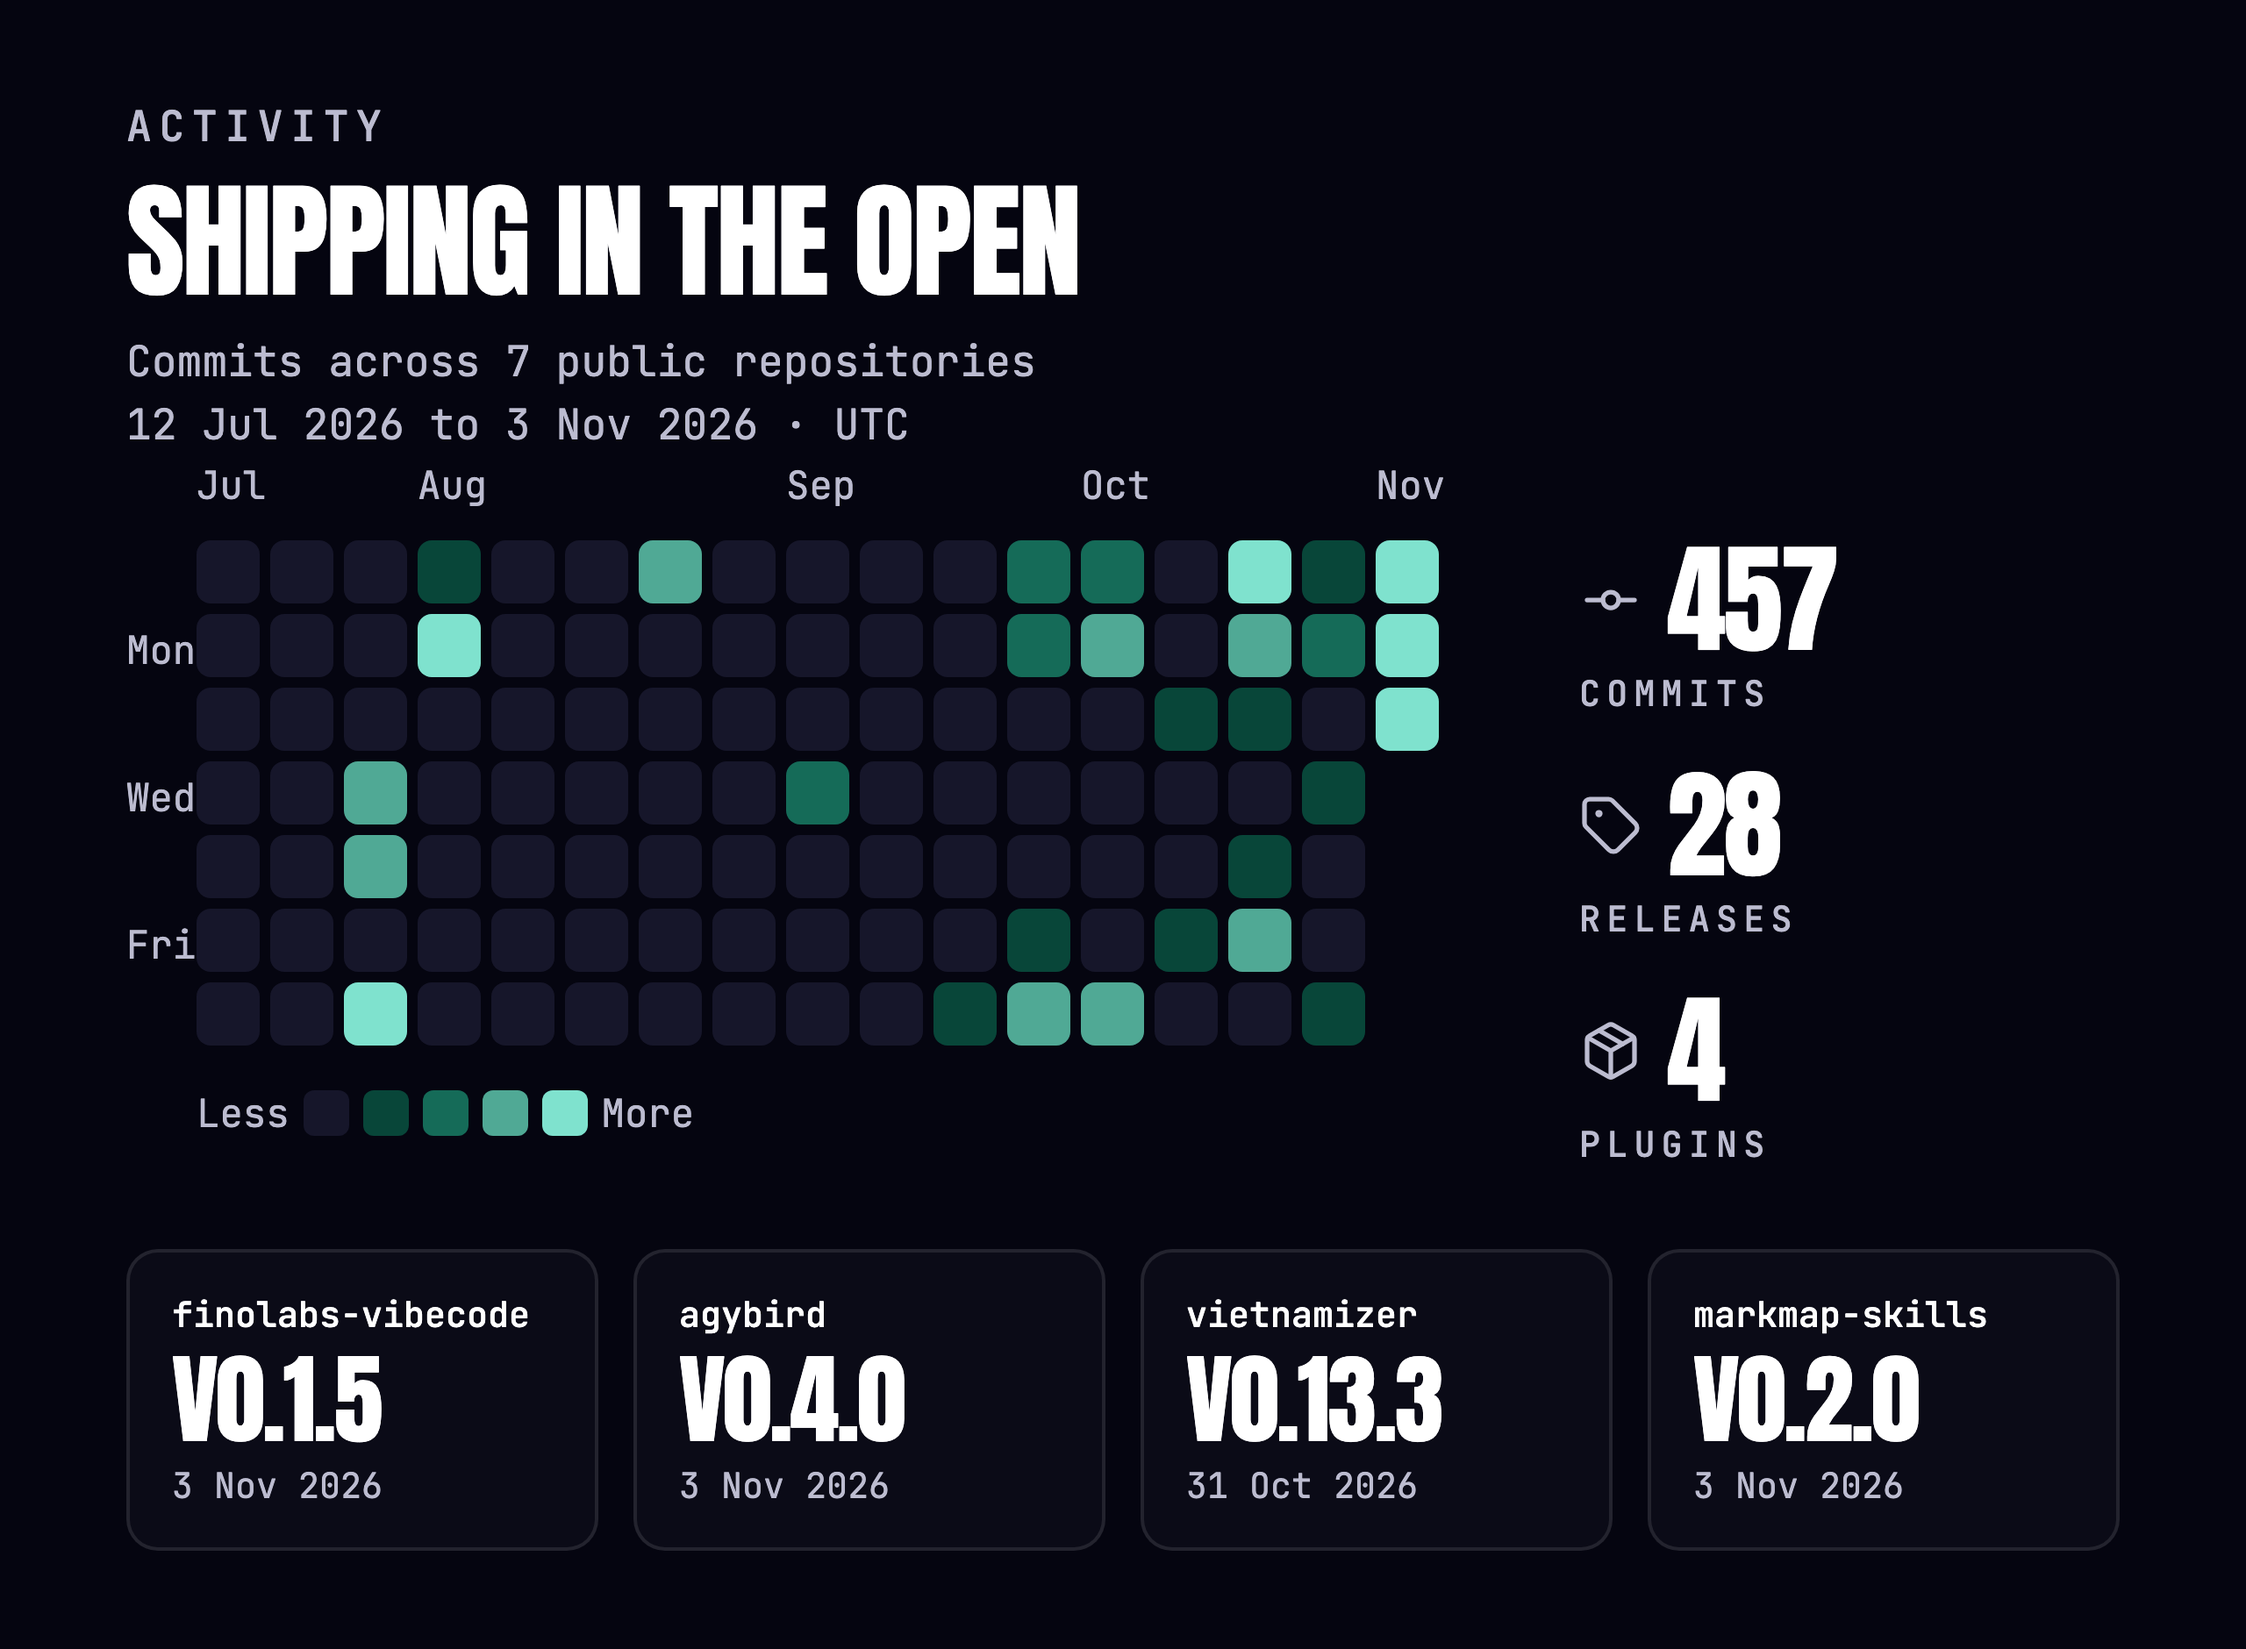
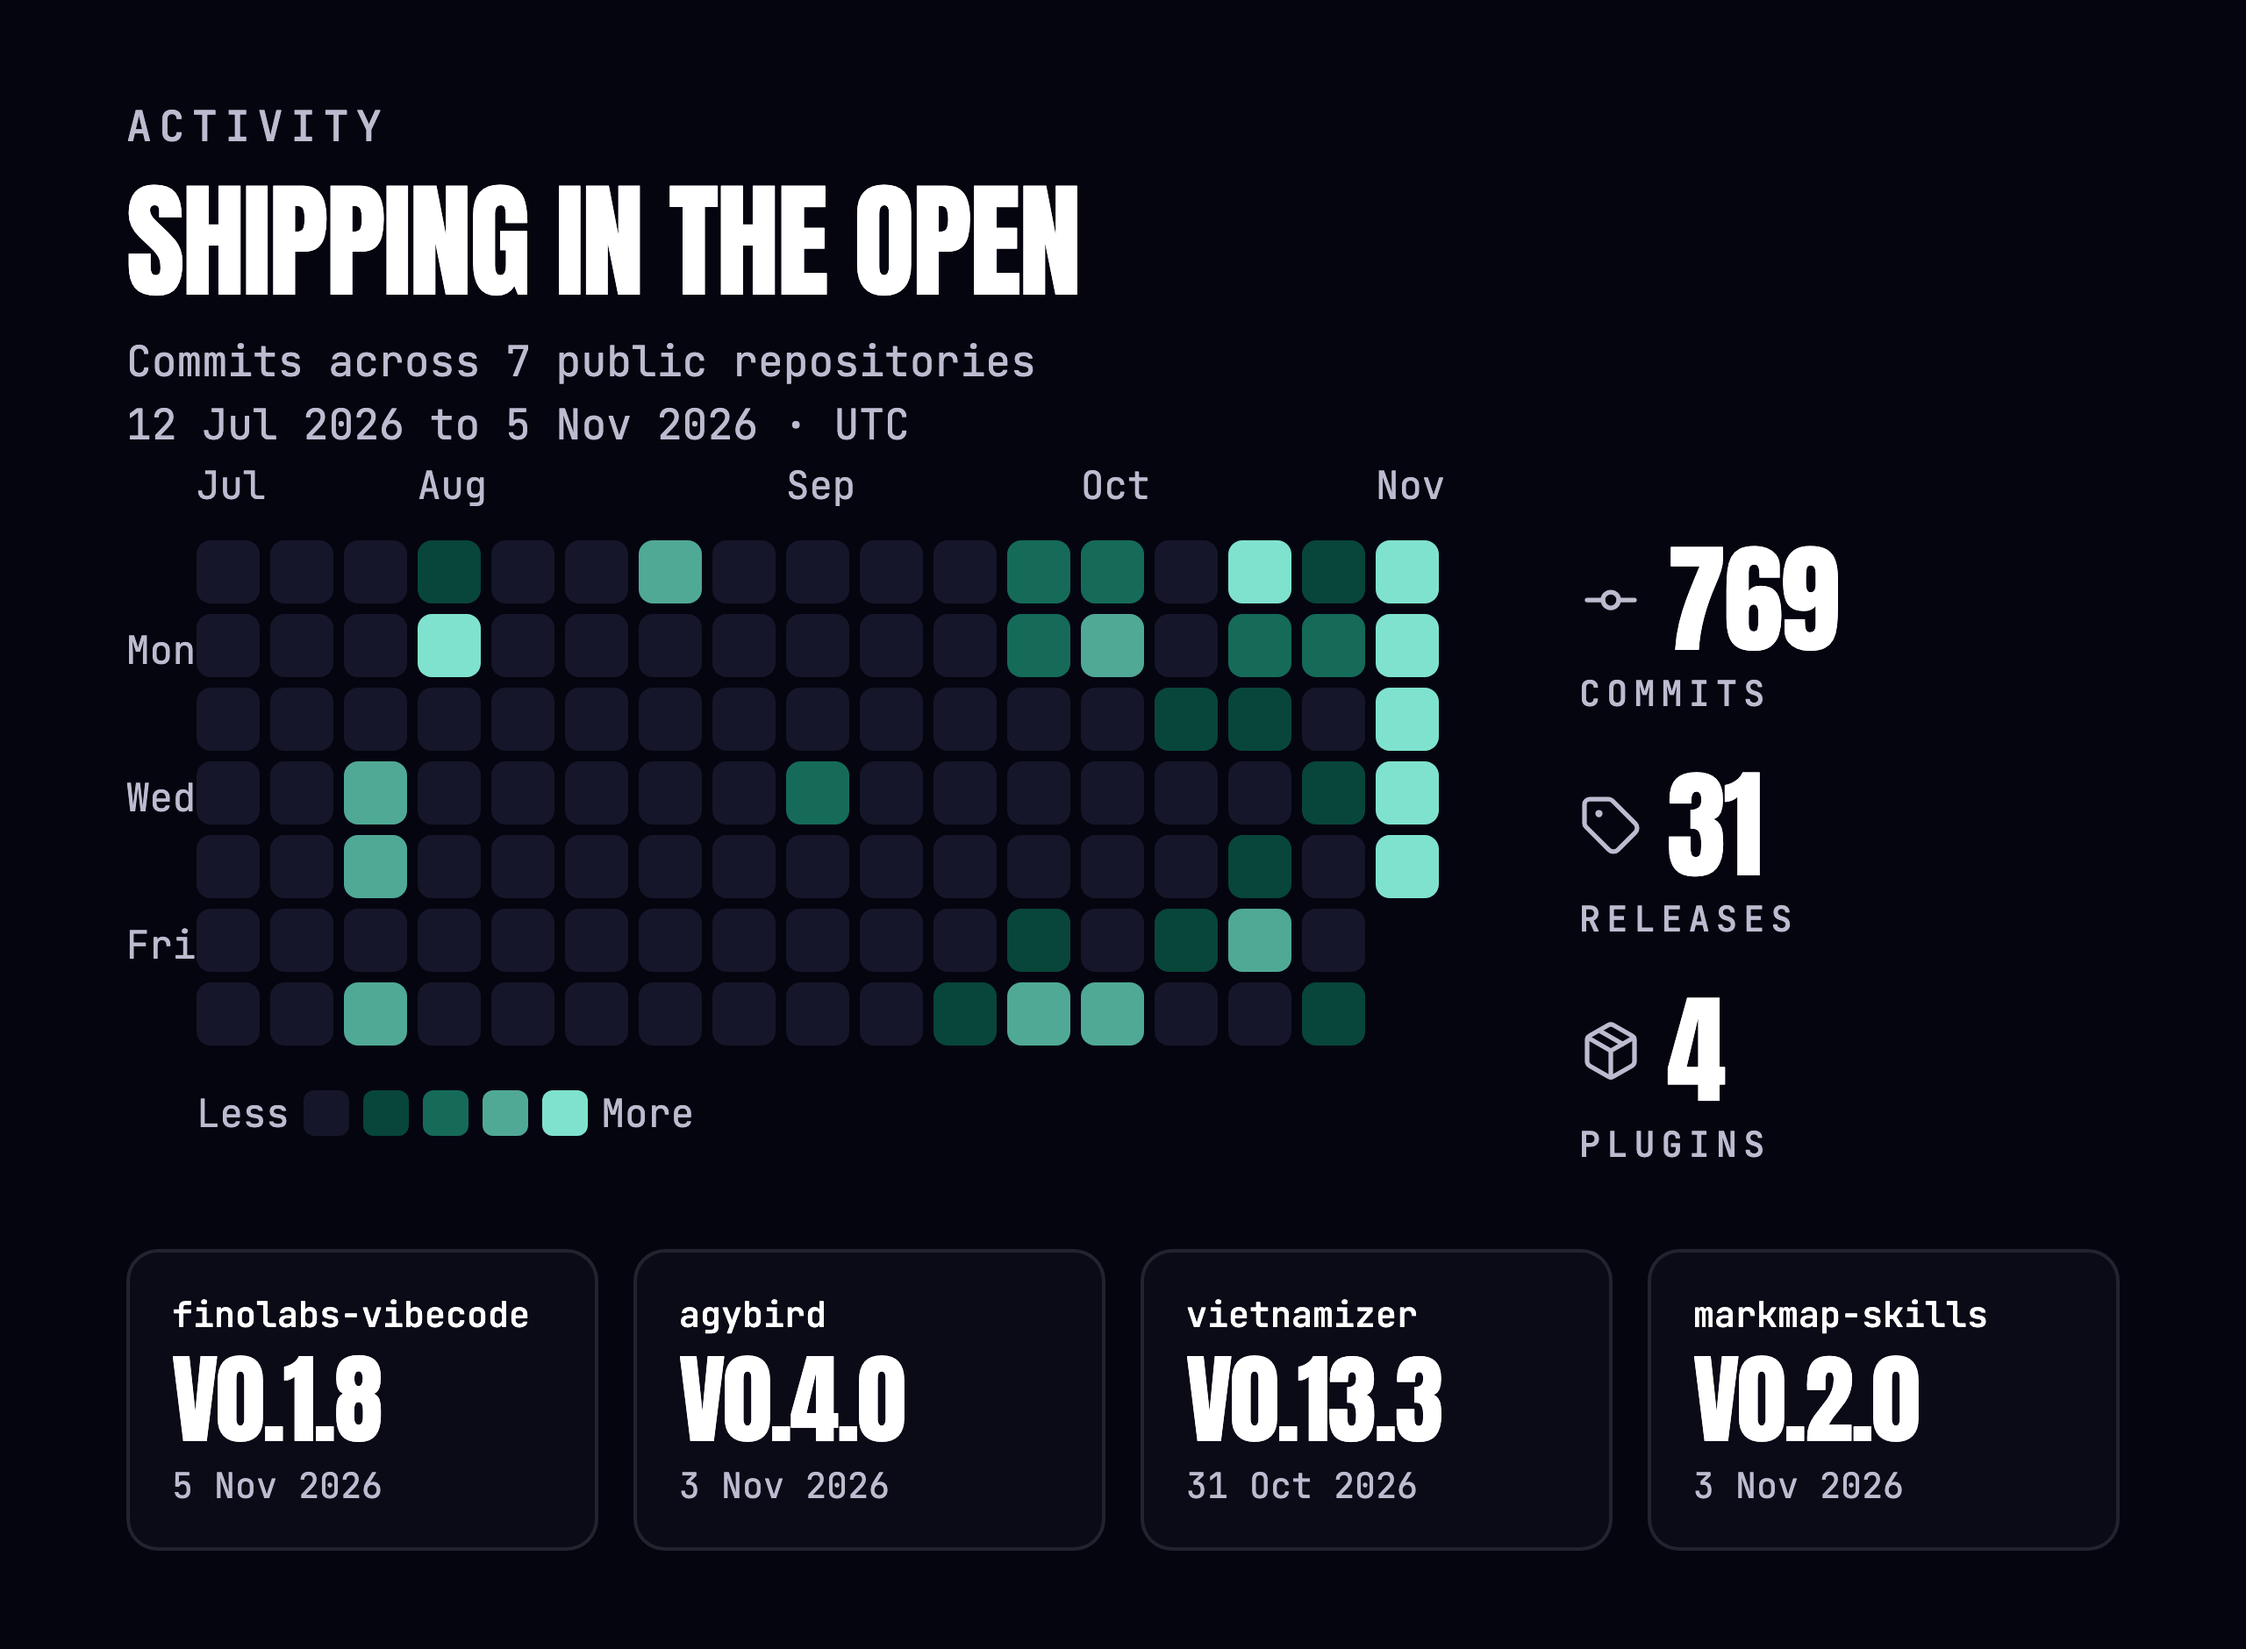
Link the developer hub and match the plugin catalog
The finolabs-vibecode row still carried the 0.1.7 description, and
nothing on the profile pointed to finolabs.github.io. The activity
data and images are regenerated as the profile-art README prescribes.

diff --git a/profile/README.md b/profile/README.md
@@ -8,11 +8,11 @@ FINOLABS is an investment and technology company. Built on AI-native and tech-dr
 
 ## Open source
 
-Plugins for AI coding agents. Every plugin lives in one shared catalog, [`finolabs/plugins`](https://github.com/finolabs/plugins), so Claude Code and Codex need a single marketplace source.
+Plugins for AI coding agents. Every plugin lives in one shared catalog, [`finolabs/plugins`](https://github.com/finolabs/plugins), so Claude Code and Codex need a single marketplace source. The [developer hub](https://finolabs.github.io) lists them with install commands.
 
 | Plugin | Description |
 | --- | --- |
-| [finolabs-vibecode](https://github.com/finolabs/finolabs-vibecode) | Engineering practice for AI coding agents: routing, delegation, review and security gates, verification, versioning and open source readiness. |
+| [finolabs-vibecode](https://github.com/finolabs/finolabs-vibecode) | Engineering practice for AI coding agents: routing, delegation, review and security gates, verification, versioning, agent scans and mode settings. |
 | [agybird](https://github.com/finolabs/agybird) | Delegate code work, image generation or editing, and general tasks to the official Google Antigravity CLI through an existing Gemini subscription. |
 | [vietnamizer](https://github.com/finolabs/vietnamizer) | Biên tập bản nháp, bài viết, README và bản dịch tiếng Việt cho tự nhiên hơn, giữ nguyên ý, dữ kiện, thuật ngữ, code và giọng người viết. |
 | [markmap-skills](https://github.com/finolabs/markmap-skills) | Markmap mindmaps for AI agents with strict cognitive structuring, delivered as clean .mindmap.md files and standalone HTML pages. |
